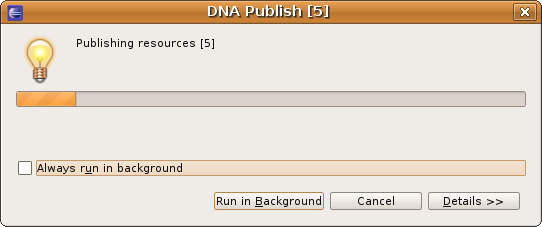
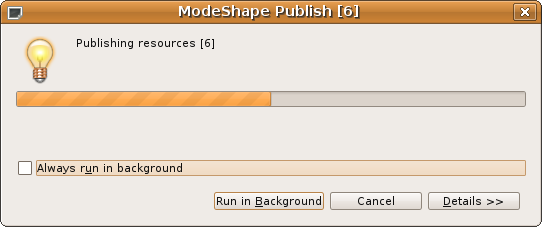
MODE-580 Rebranding to ModeShape. Mostly Eclipse Help documentation-related changes.
git-svn-id: http://svn.jboss.org/repos/jbosstools/trunk@19893 a97e2381-89e5-4abb-bab3-167db6db766c

Changed region(s): [[0.1181, 0.4009, 0.5018, 0.4934], [0.3247, 0.0, 0.679, 0.0925], [0.0, 0.0, 0.059, 0.0925]]

diff --git a/modeshape/plugins/org.jboss.tools.modeshape.rest/docs/PublishDialog.html b/modeshape/plugins/org.jboss.tools.modeshape.rest/docs/PublishDialog.html
@@ -11,9 +11,9 @@
   - See the AUTHORS.txt file in the distribution for a full listing of
   - individual contributors.
   -->
-<h2>Publish/Unpublish Dialog</h2>
+<h2>ModeShape Publish/Unpublish Dialog</h2>
 
-<p>The <i>ModeShape Publish/Unpublish Dialog</i> is used to publish or unpublish workspace selected files and folders to/from repository workspaces. When publishing, the selected files will be uploaded to the selected repository workspace. When unpublishing, the selected files will be removed from the selected repository workspace (if they exist there). The <a href="PublishingPreferencesDialog.html">Publishing Preferences Page</a> allows you to filter out files contained within the selection based on their file extensions or by the name of the folder, or ancestor folder, they are contained within.</p>
+<p>The <i>ModeShape Publish/Unpublish Dialog</i> is used to publish or unpublish workspace selected files and folders to/from repository workspaces. When publishing, the selected files will be uploaded to the selected repository workspace. When unpublishing, the selected files will be removed from the selected repository workspace (if they exist there). The <a href="ModeShapePreferencesDialog.html">ModeShape Preferences Page</a> allows you to filter out files contained within the selection based on their file extensions or by the name of the folder, or ancestor folder, they are contained within.</p>
 
 <p>Here is what the <i>Publish/Unpublish Dialog</i> looks like:</p>
 
@@ -24,11 +24,11 @@
 <table border="1">
 <tr>
 	<td align="right"><strong>Server Combo</strong>&nbsp;</td>
-	<td>allows selection of a registered server</td>
+	<td>allows selection of a registered ModeShape server</td>
 </tr>
 <tr>
 	<td align="right"><strong>New Server Button</strong>&nbsp;</td>
-	<td>use to create and register a new server that is hosting a ModeShape repository</td>
+	<td>use to create and register a new server that is hosting one or more ModeShape repositories</td>
 </tr>
 <tr>
 	<td align="right"><strong>Repository Combo</strong>&nbsp;</td>
@@ -48,12 +48,12 @@
 </tr>
 </table>
 
-<p>A server must be selected before a repository can be selected. Likewise, a repository must be selected before a workspace can be selected. The message area at the top of the dialog will indicate the type of operation (publish or unpublish) and if there is any missing information. Once the workspace has been selected the 'Finish' button will be enabled and the operation can be executed. These operations can be run in the background so that multiple operations can be run at the same time. The Publishing Message Console displays output from the operations.</p>
+<p>A server must be selected before a repository can be selected. Likewise, a repository must be selected before a workspace can be selected. The message area at the top of the dialog will indicate the type of operation (publish or unpublish) and if there is any missing information. Once the workspace has been selected the 'Finish' button will be enabled and the operation can be executed. These operations can be run in the background so that multiple operations can be run at the same time. The <a href="ModeShapeMessageConsole.html">ModeShape Message Console</a> displays output from the operations.</p>
 
 <h3>Related Topics</h3>
 
 <ul>
 <li><a href="ServerDialog.html">Server Dialog</a></li>
-<li><a href="PublishingMessageConsole.html">Publishing Message Console</a></li>
-<li><a href="PublishingPreferencesDialog.html">Publishing Preferences Page</a></li>
+<li><a href="ModeShapeMessageConsole.html">ModeShape Message Console</a></li>
+<li><a href="ModeShapePreferencesDialog.html">ModeShape Preferences Page</a></li>
 </ul>

diff --git a/modeshape/plugins/org.jboss.tools.modeshape.rest/docs/ResourceContextMenu.html b/modeshape/plugins/org.jboss.tools.modeshape.rest/docs/ResourceContextMenu.html
@@ -11,7 +11,7 @@
   - See the AUTHORS.txt file in the distribution for a full listing of
   - individual contributors.
   -->
-<h2>Resource Context Menu</h2>
+<h2>ModeShape Resource Context Menu</h2>
 
 <p>The <i>Resource Context Menu</i> consists of these actions: publish, unpublish, and show published locations. The publish and unpublish actions will be enabled when one or more resources (i.e, project, folder, or file) in the workspace are selected. When publishing, the selected resources will be uploaded to a ModeShape repository workspace. When unpublishing, the selected resources will be removed from a selected ModeShape repository workspace (if they exist there). If a resource has already been published using the current Eclipse workspace, the show published locations action will be enabled.</p>
 
@@ -19,11 +19,11 @@
 
 <img src="images/ResourceContextMenu.png" border="0" alt="">
 
-<p>Files can be filtered out of publishing and unpublishing operations even though they have been selected. Use the <a href="PublishingPreferencesDialog.html">Publishing Preferences Page</a> to filter out files contained within the selection based on their file extensions or by the name of the folder, or ancestor folder, they are contained within. </p>
+<p>Files can be filtered out of publishing and unpublishing operations even though they have been selected. Use the <a href="ModeShapePreferencesDialog.html">ModeShape Preferences Page</a> to filter out files contained within the selection based on their file extensions or by the name of the folder, or ancestor folder, they are contained within. </p>
 
 <h3>Related Topics</h3>
 
 <ul>
 <li><a href="PublishDialog.html">Publishing and Unpublishing Dialog</a></li>
-<li><a href="PublishingPreferenceDialog.html">Publishing Preferences Dialog</a></li>
+<li><a href="ModeShapePreferenceDialog.html">ModeShape Preferences Dialog</a></li>
 </ul>

diff --git a/modeshape/plugins/org.jboss.tools.modeshape.rest/docs/ModeShapePreferencesDialog.html b/modeshape/plugins/org.jboss.tools.modeshape.rest/docs/ModeShapePreferencesDialog.html
@@ -11,13 +11,13 @@
   - See the AUTHORS.txt file in the distribution for a full listing of
   - individual contributors.
   -->
-<h2>Publishing Preferences Page</h2>
+<h2>ModeShape Preferences Page</h2>
 
-<p>The <i>Publishing Preferences Page</i> provides settings that control what files are included in publishing and unpublishing operations. A publishing operation occurs when the selected files in your local workspace are uploaded to a specific ModeShape repository workspace. While an unpublishing operation occurs when the selected files in your local workspace are removed from a specific ModeShape repository workspace. The <i>Filtered File Extensions</i> preference and the <i>Filtered Folder Names</i> preference each provide a way to filter out certain files from these operations.</p>
+<p>The <i>ModeShape Preferences Page</i> provides settings that control what files are included in publishing and unpublishing operations. A publishing operation occurs when the selected files in your local workspace are uploaded to a specific ModeShape repository workspace. While an unpublishing operation occurs when the selected files in your local workspace are removed from a specific ModeShape repository workspace. The <i>Filtered File Extensions</i> preference and the <i>Filtered Folder Names</i> preference each provide a way to filter out certain files from these operations.</p>
 
-<p>Here is what the <i>Publishing Preferences Page</i> looks like:</p>
+<p>Here is what the <i>ModeShape Preferences Page</i> looks like:</p>
 
-<img src="images/PublishingPreferencesDialog.png" border="0" alt="">
+<img src="images/ModeShapePreferencesDialog.png" border="0" alt="">
 
 <h3>Filtered File Extensions Preference</h3>
 

diff --git a/modeshape/plugins/org.jboss.tools.modeshape.rest/docs/ServerView.html b/modeshape/plugins/org.jboss.tools.modeshape.rest/docs/ServerView.html
@@ -11,7 +11,7 @@
   - See the AUTHORS.txt file in the distribution for a full listing of
   - individual contributors.
   -->
-<h2>Server View</h2>
+<h2>ModeShape Server View</h2>
 
 <p>The <i>Server View</i> displays the registered servers hosting ModeShape repositories. For each server, the repositories and repository workspaces are also displayed. There are view toolbar buttons to create a new server (<img src="images/new_server.gif" border="0" alt="">), edit a selected server's properties (<img src="images/edit_server.gif" border="0" alt="">), discard one or more selected servers (<img src="images/delete_server.gif" border="0" alt="">), reconnect to a selected server (<img src="images/refresh.gif" border="0" alt="">), and collapse all servers so that their repositories and workspaces can't be seen (<img src="images/collapse_all.gif" border="0" alt="">). If a connection to a server cannot be established that server icon will be decorated with an error overlay image.</p>
 

diff --git a/modeshape/plugins/org.jboss.tools.modeshape.rest/docs/Toc.html b/modeshape/plugins/org.jboss.tools.modeshape.rest/docs/Toc.html
@@ -17,8 +17,8 @@
 <li><a href="PublishDialog.html">Publish/Unpublish Dialog</a></li>
 <li><a href="ServerDialog.html">Server Dialog</a></li>
 <li><a href="ServerView.html">Server View</a></li>
-<li><a href="PublishingMessageConsole.html">Publishing Message Console</a></li>
+<li><a href="ModeShapeMessageConsole.html">ModeShape Message Console</a></li>
 <li><a href="PublishedLocationsDialog.html">Published Locations Dialog</a></li>
 <li><a href="ResourceContextMenu.html">Resource Context Menu</a></li>
-<li><a href="PublishingPreferencesDialog.html">Publishing Preferences Page</a></li>
+<li><a href="ModeShapePreferencesDialog.html">ModeShape Preferences Page</a></li>
 </ul>

diff --git a/modeshape/plugins/org.jboss.tools.modeshape.rest/docs/ModeShapeMessageConsole.html b/modeshape/plugins/org.jboss.tools.modeshape.rest/docs/ModeShapeMessageConsole.html
@@ -17,9 +17,9 @@
 
 <p>Here is what the <i>ModeShape Message Console</i> looks like:</p>
 
-<img src="images/PublishingMessageConsole.png" border="0" alt="">
+<img src="images/ModeShapeMessageConsole.png" border="0" alt="">
 
-<p>There are view toolbar buttons to clear the console, scroll lock, pin the console, display a different console, and to open another <i>Publishing Message Console</i>.</p>
+<p>There are view toolbar buttons to clear the console, scroll lock, pin the console, display a different console, and to open another <i>ModeShape Message Console</i>.</p>
 
 <h3>Console Message Entries</h3>
 

diff --git a/modeshape/plugins/org.jboss.tools.modeshape.rest/docs/PublishedLocationsDialog.html b/modeshape/plugins/org.jboss.tools.modeshape.rest/docs/PublishedLocationsDialog.html
@@ -11,7 +11,7 @@
   - See the AUTHORS.txt file in the distribution for a full listing of
   - individual contributors.
   -->
-<h2>Published Locations Dialog</h2>
+<h2>ModeShape Published Locations Dialog</h2>
 
 <p>The <i>Published Locations Dialog</i> identifies all the ModeShape workspaces the selected file has been published to from this Eclipse workspace.</p>
 

diff --git a/modeshape/plugins/org.jboss.tools.modeshape.rest/docs/ServerDialog.html b/modeshape/plugins/org.jboss.tools.modeshape.rest/docs/ServerDialog.html
@@ -11,7 +11,7 @@
   - See the AUTHORS.txt file in the distribution for a full listing of
   - individual contributors.
   -->
-<h2>Server Dialog</h2>
+<h2>ModeShape Server Dialog</h2>
 
 <p>The <i>Server Dialog</i> is used to create and register new servers that host ModeShape repositories. This dialog is also used to edit an existing server's properties.</p>
 

diff --git a/modeshape/plugins/org.jboss.tools.modeshape.rest/src/org/jboss/tools/modeshape/rest/jobs/PublishJob.java b/modeshape/plugins/org.jboss.tools.modeshape.rest/src/org/jboss/tools/modeshape/rest/jobs/PublishJob.java
@@ -27,8 +27,8 @@ import org.jboss.tools.modeshape.rest.Activator;
 import org.jboss.tools.modeshape.rest.PublishedResourceHelper;
 import org.jboss.tools.modeshape.rest.RestClientI18n;
 import org.jboss.tools.modeshape.rest.ServerManager;
-import org.jboss.tools.modeshape.rest.views.PublishingContentProvider;
-import org.jboss.tools.modeshape.rest.views.PublishingMessageConsole;
+import org.jboss.tools.modeshape.rest.views.ModeShapeContentProvider;
+import org.jboss.tools.modeshape.rest.views.ModeShapeMessageConsole;
 import org.modeshape.common.util.CheckArg;
 import org.modeshape.web.jcr.rest.client.Status;
 import org.modeshape.web.jcr.rest.client.domain.Workspace;
@@ -185,13 +185,13 @@ public final class PublishJob extends Job {
 
             // write initial message to console
             if (isPublishing()) {
-                PublishingMessageConsole.writeln(RestClientI18n.publishJobPublish.text(this.jobId,
+                ModeShapeMessageConsole.writeln(RestClientI18n.publishJobPublish.text(this.jobId,
                                                                                 serverUrl,
                                                                                 repositoryName,
                                                                                 workspaceName,
                                                                                 fileCount));
             } else {
-                PublishingMessageConsole.writeln(RestClientI18n.publishJobUnpublish.text(this.jobId,
+                ModeShapeMessageConsole.writeln(RestClientI18n.publishJobUnpublish.text(this.jobId,
                                                                                   serverUrl,
                                                                                   repositoryName,
                                                                                   workspaceName,
@@ -231,7 +231,7 @@ public final class PublishJob extends Job {
                 monitor.worked(1);
 
                 // let decorator know publishing state has changed on this file
-                PublishingContentProvider decorator = PublishingContentProvider.getDecorator();
+                ModeShapeContentProvider decorator = ModeShapeContentProvider.getDecorator();
 
                 if (decorator != null) {
                     decorator.refresh(eclipseFile);
@@ -279,21 +279,21 @@ public final class PublishJob extends Job {
 
             if (canceled) {
                 if (isPublishing()) {
-                    PublishingMessageConsole.writeln(RestClientI18n.publishJobPublishCanceledMsg.text(this.jobId,
+                    ModeShapeMessageConsole.writeln(RestClientI18n.publishJobPublishCanceledMsg.text(this.jobId,
                                                                                                numProcessed,
                                                                                                this.files.size(),
                                                                                                duration));
                 } else {
-                    PublishingMessageConsole.writeln(RestClientI18n.publishJobUnpublishCanceledMsg.text(this.jobId,
+                    ModeShapeMessageConsole.writeln(RestClientI18n.publishJobUnpublishCanceledMsg.text(this.jobId,
                                                                                                  numProcessed,
                                                                                                  this.files.size(),
                                                                                                  duration));
                 }
             } else {
                 if (isPublishing()) {
-                    PublishingMessageConsole.writeln(RestClientI18n.publishJobPublishFinishedMsg.text(this.jobId, duration));
+                    ModeShapeMessageConsole.writeln(RestClientI18n.publishJobPublishFinishedMsg.text(this.jobId, duration));
                 } else {
-                    PublishingMessageConsole.writeln(RestClientI18n.publishJobUnpublishFinishedMsg.text(this.jobId, duration));
+                    ModeShapeMessageConsole.writeln(RestClientI18n.publishJobUnpublishFinishedMsg.text(this.jobId, duration));
                 }
             }
         }
@@ -347,7 +347,7 @@ public final class PublishJob extends Job {
         }
 
         // write to console creating a hyperlink
-        PublishingMessageConsole.writeln(message, file);
+        ModeShapeMessageConsole.writeln(message, file);
     }
 
 }

diff --git a/modeshape/plugins/org.jboss.tools.modeshape.rest/src/org/jboss/tools/modeshape/rest/views/ModeShapeMessageConsole.java b/modeshape/plugins/org.jboss.tools.modeshape.rest/src/org/jboss/tools/modeshape/rest/views/ModeShapeMessageConsole.java
@@ -37,10 +37,10 @@ import org.modeshape.web.jcr.rest.client.Status;
 import org.modeshape.web.jcr.rest.client.Status.Severity;
 
 /**
- * The <code>PublishingMessageConsole</code> is a message console view where status of publishing operations are logged. This class
+ * The <code>ModeShapeMessageConsole</code> is a message console view where status of publishing operations are logged. This class
  * ensures all writes to the console are done in the UI thread.
  */
-public final class PublishingMessageConsole extends MessageConsole {
+public final class ModeShapeMessageConsole extends MessageConsole {
 
     // =======================================================================================================================
     // Constants
@@ -59,7 +59,7 @@ public final class PublishingMessageConsole extends MessageConsole {
     /**
      * The identifier and type of the Message Console.
      */
-    private static final String ID = "org.jboss.tools.modeshape.rest.views.PublishingMessageConsole";
+    private static final String ID = "org.jboss.tools.modeshape.rest.views.ModeShapeMessageConsole";
 
     /**
      * The message console name.
@@ -71,26 +71,26 @@ public final class PublishingMessageConsole extends MessageConsole {
     // =======================================================================================================================
 
     /**
-     * Note: The <code>PublishingMessageConsole</code> should <strong>NOT</strong> be cached as the user can open/close/create instances.
+     * Note: The <code>ModeShapeMessageConsole</code> should <strong>NOT</strong> be cached as the user can open/close/create instances.
      * 
      * @return the Message Console if available or a new one (never <code>null</code>)
      */
-    private static PublishingMessageConsole getMessageConsole() {
-        PublishingMessageConsole console = null;
+    private static ModeShapeMessageConsole getMessageConsole() {
+        ModeShapeMessageConsole console = null;
         IConsoleManager consoleMgr = ConsolePlugin.getDefault().getConsoleManager();
         IConsole[] consoles = consoleMgr.getConsoles();
 
         // see if console is open
         for (int i = 0; i < consoles.length; ++i) {
             if (NAME.equals(consoles[i].getName())) {
-                console = (PublishingMessageConsole)consoles[i];
+                console = (ModeShapeMessageConsole)consoles[i];
                 break;
             }
         }
 
         // create console if necessary
         if (console == null) {
-            console = new PublishingMessageConsole();
+            console = new ModeShapeMessageConsole();
             consoleMgr.addConsoles(new IConsole[] {console});
         }
 
@@ -118,7 +118,7 @@ public final class PublishingMessageConsole extends MessageConsole {
                                 IFile file ) {
         CheckArg.isNotNull(message, "message");
 
-        PublishingMessageConsole console = getMessageConsole();
+        ModeShapeMessageConsole console = getMessageConsole();
         console.print(message, true, file);
     }
 
@@ -129,7 +129,7 @@ public final class PublishingMessageConsole extends MessageConsole {
     /**
      * Prevent construction.
      */
-    private PublishingMessageConsole() {
+    private ModeShapeMessageConsole() {
         super(NAME, Activator.getDefault().getImageDescriptor(ModeShape_IMAGE_16x));
     }
 
@@ -252,7 +252,7 @@ public final class PublishingMessageConsole extends MessageConsole {
         /**
          * The console where the message is printed to and the hyperlink will be created.
          */
-        private final PublishingMessageConsole console;
+        private final ModeShapeMessageConsole console;
 
         /**
          * The file whose full path will become a hyperlink.
@@ -274,7 +274,7 @@ public final class PublishingMessageConsole extends MessageConsole {
          * @param file the file whose full path appears in the message and will become a hyperlink
          */
         public HyperlinkCreator( String message,
-                                 PublishingMessageConsole console,
+                                 ModeShapeMessageConsole console,
                                  IFile file ) {
             this.message = message.replaceAll("<em>", "").replaceAll("\\Q</em>\\E", "");
             this.console = console;

diff --git a/modeshape/plugins/org.jboss.tools.modeshape.rest/src/org/jboss/tools/modeshape/rest/preferences/ModeShapePreferencePage.java b/modeshape/plugins/org.jboss.tools.modeshape.rest/src/org/jboss/tools/modeshape/rest/preferences/ModeShapePreferencePage.java
@@ -15,9 +15,9 @@ package org.jboss.tools.modeshape.rest.preferences;
 
 import static org.jboss.tools.modeshape.rest.IUiConstants.ModeShape_IMAGE_16x;
 import static org.jboss.tools.modeshape.rest.IUiConstants.PREFERENCE_PAGE_HELP_CONTEXT;
-import static org.jboss.tools.modeshape.rest.RestClientI18n.publishingPreferencePageDescription;
-import static org.jboss.tools.modeshape.rest.RestClientI18n.publishingPreferencePageMessage;
-import static org.jboss.tools.modeshape.rest.RestClientI18n.publishingPreferencePageTitle;
+import static org.jboss.tools.modeshape.rest.RestClientI18n.preferencePageDescription;
+import static org.jboss.tools.modeshape.rest.RestClientI18n.preferencePageMessage;
+import static org.jboss.tools.modeshape.rest.RestClientI18n.preferencePageTitle;
 import org.eclipse.jface.preference.IPreferenceStore;
 import org.eclipse.jface.preference.PreferencePage;
 import org.eclipse.swt.SWT;
@@ -32,9 +32,9 @@ import org.eclipse.ui.help.IWorkbenchHelpSystem;
 import org.jboss.tools.modeshape.rest.Activator;
 
 /**
- * The <code>PublishingPreferencePage</code> is the UI for managing all ModeShape-related preferences.
+ * The <code>ModeShapePreferencePage</code> is the UI for managing all ModeShape-related preferences.
  */
-public final class PublishingPreferencePage extends PreferencePage implements IWorkbenchPreferencePage {
+public final class ModeShapePreferencePage extends PreferencePage implements IWorkbenchPreferencePage {
 
     // ===========================================================================================================================
     // Fields
@@ -95,7 +95,7 @@ public final class PublishingPreferencePage extends PreferencePage implements IW
      */
     @Override
     public String getDescription() {
-        return publishingPreferencePageDescription.text();
+        return preferencePageDescription.text();
     }
 
     /**
@@ -115,7 +115,7 @@ public final class PublishingPreferencePage extends PreferencePage implements IW
      */
     @Override
     public String getMessage() {
-        return publishingPreferencePageMessage.text();
+        return preferencePageMessage.text();
     }
 
     /**
@@ -135,7 +135,7 @@ public final class PublishingPreferencePage extends PreferencePage implements IW
      */
     @Override
     public String getTitle() {
-        return publishingPreferencePageTitle.text();
+        return preferencePageTitle.text();
     }
 
     /**

diff --git a/modeshape/plugins/org.jboss.tools.modeshape.rest/src/org/jboss/tools/modeshape/rest/views/ModeShapeContentProvider.java b/modeshape/plugins/org.jboss.tools.modeshape.rest/src/org/jboss/tools/modeshape/rest/views/ModeShapeContentProvider.java
@@ -45,10 +45,10 @@ import org.modeshape.web.jcr.rest.client.domain.Server;
 import org.modeshape.web.jcr.rest.client.domain.Workspace;
 
 /**
- * The <code>PublishingContentProvider</code> is a content and label provider for the repositories. This class
+ * The <code>ModeShapeContentProvider</code> is a content and label provider for the repositories. This class
  * <strong>MUST</strong> be registered, and then unregistered, to receive server registry events.
  */
-public final class PublishingContentProvider extends ColumnLabelProvider
+public final class ModeShapeContentProvider extends ColumnLabelProvider
     implements ILightweightLabelDecorator, IServerRegistryListener, ITreeContentProvider {
 
     // ===========================================================================================================================
@@ -72,11 +72,11 @@ public final class PublishingContentProvider extends ColumnLabelProvider
     /**
      * @return the decorator
      */
-    public static PublishingContentProvider getDecorator() {
+    public static ModeShapeContentProvider getDecorator() {
         IDecoratorManager decoratorMgr = Activator.getDefault().getWorkbench().getDecoratorManager();
 
         if (decoratorMgr.getEnabled(ID)) {
-            return (PublishingContentProvider)decoratorMgr.getBaseLabelProvider(ID);
+            return (ModeShapeContentProvider)decoratorMgr.getBaseLabelProvider(ID);
         }
 
         return null;
@@ -342,7 +342,7 @@ public final class PublishingContentProvider extends ColumnLabelProvider
             @SuppressWarnings( "synthetic-access" )
             @Override
             public void run() {
-                fireLabelProviderChanged(new LabelProviderChangedEvent(PublishingContentProvider.this, element));
+                fireLabelProviderChanged(new LabelProviderChangedEvent(ModeShapeContentProvider.this, element));
             }
         });
     }
